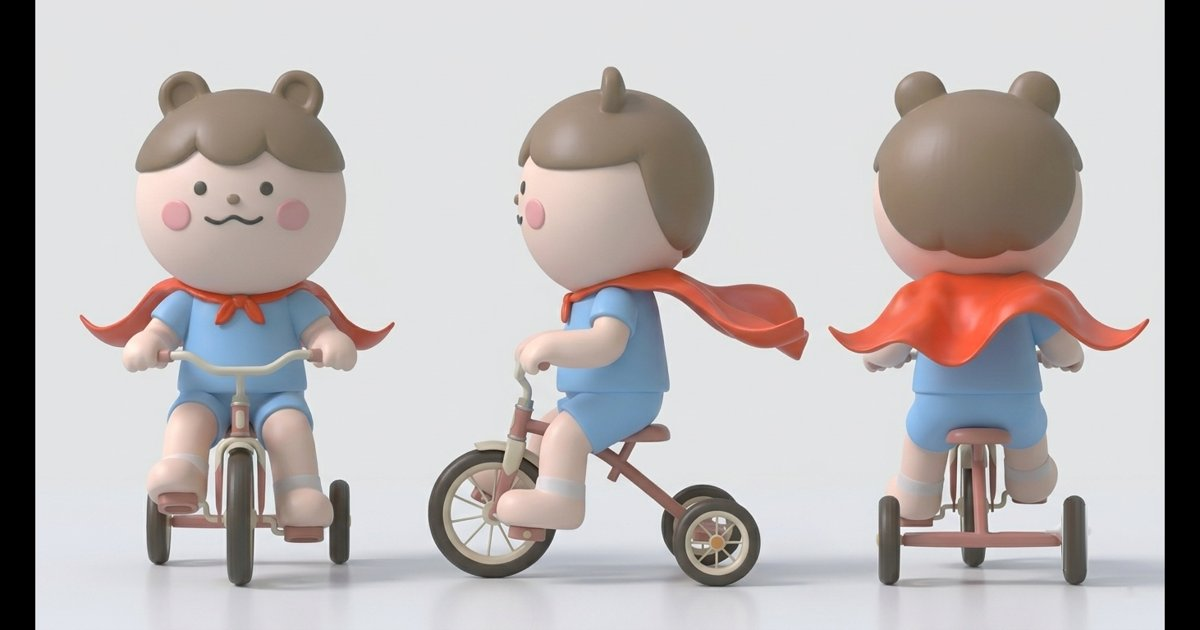
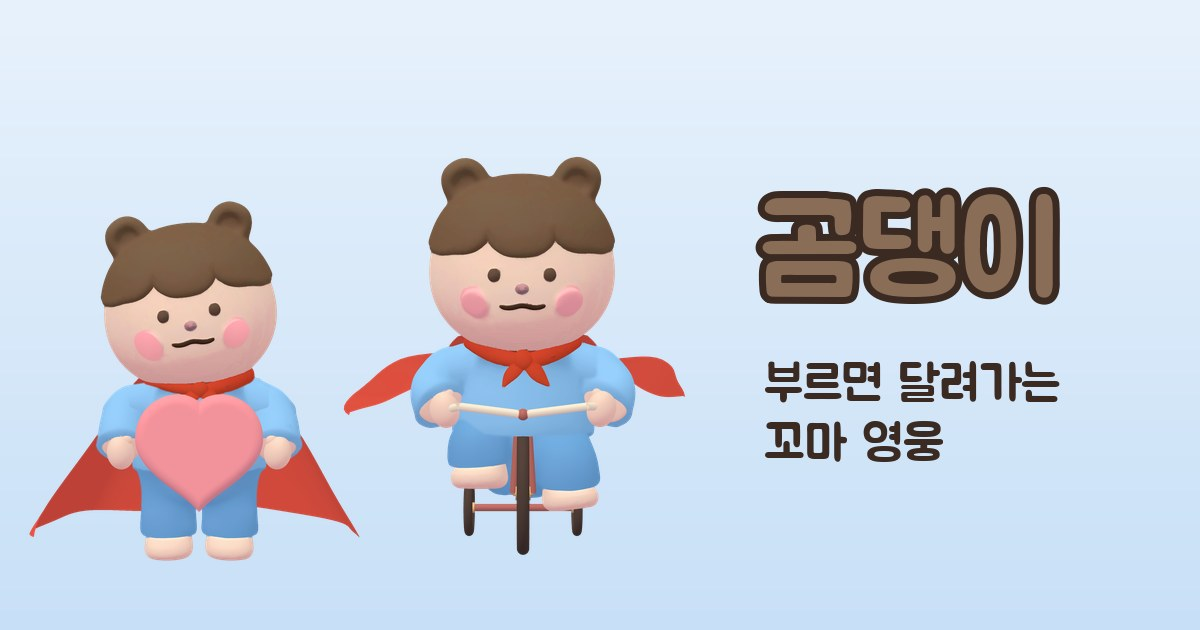
이미지 간소화: 공식 3D 원화로 통일, 갤러리 삭제, 굿즈 섹션을 상단으로 이동
Claude-Session: https://claude.ai/code/session_0173oautgBLqpQzjo32yZndw

diff --git a/index.html b/index.html
@@ -86,7 +86,7 @@ main{display:flex;flex-direction:column;gap:var(--gap);padding-block:var(--gap)}
 
 /* story */
 .story .in{display:grid;grid-template-columns:5fr 6fr;gap:clamp(24px,5vw,56px);align-items:center}
-.story-img{border-radius:24px;overflow:hidden;aspect-ratio:4/5}
+.story-img{border-radius:24px;overflow:hidden;aspect-ratio:1/1}
 .story-img img{width:100%;height:100%;object-fit:cover}
 .story-text{display:flex;flex-direction:column;gap:16px;min-width:0}
 .story-text p{max-width:30em}
@@ -182,7 +182,7 @@ footer.foot .in{padding-block:24px;display:flex;flex-wrap:wrap;justify-content:s
   <div class="in">
     <a class="logo" href="#top"><img src="favicon.png" alt="">곰댕이</a>
     <nav class="menu" aria-label="주요 메뉴">
-      <a href="#story">소개</a><a href="#profile">프로필</a><a href="#look">갤러리</a><a href="#video">영상</a><a href="#goods">굿즈</a><a href="#collab">협업</a>
+      <a href="#goods">굿즈</a><a href="#story">소개</a><a href="#video">영상</a><a href="#collab">협업</a>
     </nav>
     <a class="btn primary sm cta" href="mailto:gomdaenggo@gmail.com?subject=%5B%EA%B3%B0%EB%8C%95%EC%9D%B4%20%ED%98%91%EC%97%85%20%EC%A0%9C%EC%95%88%5D%20%ED%9A%8C%EC%82%AC%EB%AA%85%20/%20%EC%A0%9C%EC%95%88%20%EB%82%B4%EC%9A%A9&body=%EC%95%88%EB%85%95%ED%95%98%EC%84%B8%EC%9A%94%2C%20%EA%B3%B0%EB%8C%95%EC%9D%B4%20%ED%98%91%EC%97%85%EC%9D%84%20%EC%A0%9C%EC%95%88%EB%93%9C%EB%A6%BD%EB%8B%88%EB%8B%A4.%0A%0A%ED%9A%8C%EC%82%AC%28%EB%B8%8C%EB%9E%9C%EB%93%9C%29%EB%AA%85%3A%0A%EB%8B%B4%EB%8B%B9%EC%9E%90%20/%20%EC%97%B0%EB%9D%BD%EC%B2%98%3A%0A%ED%98%91%EC%97%85%20%ED%98%95%ED%83%9C%20%28%EB%9D%BC%EC%9D%B4%EC%84%A0%EC%8B%B1%2C%20%EA%B5%BF%EC%A6%88%2C%20%ED%8C%9D%EC%97%85%20%EB%93%B1%29%3A%0A%ED%9D%AC%EB%A7%9D%20%EC%9D%BC%EC%A0%95%3A%0A%EC%A0%9C%EC%95%88%20%EB%82%B4%EC%9A%A9%3A%0A">협업 제안</a>
   </div>
@@ -197,10 +197,10 @@ footer.foot .in{padding-block:24px;display:flex;flex-wrap:wrap;justify-content:s
       <p class="lead">곰 귀 머리에 빨간 망토를 두른 꼬마예요.<br>친구가 힘들다고 하면 빨간 세발자전거를 타고<br>누구보다 먼저 달려가요.</p>
       <div class="hero-btns">
         <a class="btn primary" href="mailto:gomdaenggo@gmail.com?subject=%5B%EA%B3%B0%EB%8C%95%EC%9D%B4%20%ED%98%91%EC%97%85%20%EC%A0%9C%EC%95%88%5D%20%ED%9A%8C%EC%82%AC%EB%AA%85%20/%20%EC%A0%9C%EC%95%88%20%EB%82%B4%EC%9A%A9&body=%EC%95%88%EB%85%95%ED%95%98%EC%84%B8%EC%9A%94%2C%20%EA%B3%B0%EB%8C%95%EC%9D%B4%20%ED%98%91%EC%97%85%EC%9D%84%20%EC%A0%9C%EC%95%88%EB%93%9C%EB%A6%BD%EB%8B%88%EB%8B%A4.%0A%0A%ED%9A%8C%EC%82%AC%28%EB%B8%8C%EB%9E%9C%EB%93%9C%29%EB%AA%85%3A%0A%EB%8B%B4%EB%8B%B9%EC%9E%90%20/%20%EC%97%B0%EB%9D%BD%EC%B2%98%3A%0A%ED%98%91%EC%97%85%20%ED%98%95%ED%83%9C%20%28%EB%9D%BC%EC%9D%B4%EC%84%A0%EC%8B%B1%2C%20%EA%B5%BF%EC%A6%88%2C%20%ED%8C%9D%EC%97%85%20%EB%93%B1%29%3A%0A%ED%9D%AC%EB%A7%9D%20%EC%9D%BC%EC%A0%95%3A%0A%EC%A0%9C%EC%95%88%20%EB%82%B4%EC%9A%A9%3A%0A">협업 제안하기</a>
-        <a class="btn" href="#look">곰댕이 더 보기</a>
+        <a class="btn" href="#goods">굿즈 보러 가기</a>
       </div>
     </div>
-    <div class="hero-img"><img src="img/hero.webp" alt="세발자전거를 타고 달리는 곰댕이" width="1100" height="1100"></div>
+    <div class="hero-img"><img src="img/hero_v2.webp" alt="빨간 세발자전거를 타고 망토를 휘날리는 곰댕이" width="1100" height="1100"></div>
   </div>
 </section>
 
@@ -214,63 +214,6 @@ footer.foot .in{padding-block:24px;display:flex;flex-wrap:wrap;justify-content:s
 </div>
 
 <main>
-
-  <section class="story" id="story">
-    <div class="in">
-      <div class="story-img"><img src="img/worry.webp" alt="친구의 메시지를 보고 걱정하는 곰댕이" loading="lazy"></div>
-      <div class="story-text">
-        <span class="eyebrow">STORY</span>
-        <h2>힘이 세진 않지만,<br>곁에 있어 주는 일은 누구보다 잘해요</h2>
-        <p>곰댕이는 힘으로 문제를 해결해 주는 영웅이 아니에요. 친구에게 "지금 어디야?" 하고 물어 오고, 망토를 휘날리며 달려와 옆에 앉아 주는 친구예요.</p>
-        <p class="quote">"괜차나,<br>곰댕이 여기 이떠."</p>
-        <div class="lines" aria-label="자주 하는 말">
-          <span class="bubble main">지금 어디야? 곰방 갈게!</span>
-          <span class="bubble">망토 출동!</span>
-          <span class="bubble">토닥토닥, 오늘도 잘해쪄.</span>
-        </div>
-      </div>
-    </div>
-  </section>
-
-  <section id="look">
-    <div class="in">
-      <div class="sec-head">
-        <span class="eyebrow">LOOK</span>
-        <h2>어떤 장면에서도 한눈에 곰댕이</h2>
-        <p class="lead">둥근 머리와 곰 귀, 점 눈과 ω 입, 분홍 볼, 하늘색 옷과 빨간 망토. 작은 면적에서도 실루엣만으로 알아볼 수 있어요.</p>
-      </div>
-      <figure class="turn">
-        <img src="img/turnaround.webp" alt="세발자전거를 탄 곰댕이의 앞, 옆, 뒤 모습" width="1376" height="768" loading="lazy">
-        <figcaption>턴어라운드 · 앞 / 옆 / 뒤</figcaption>
-      </figure>
-      <div class="gallery">
-        <figure><img src="img/front.webp" alt="곰댕이 기본 정면 전신" loading="lazy"><figcaption>기본 정면 전신</figcaption></figure>
-        <figure><img src="img/hello.webp" alt="반가워 하며 손을 드는 곰댕이" loading="lazy"><figcaption>"반가워!"</figcaption></figure>
-        <figure class="wide"><img src="img/village.webp" alt="마을 길을 세발자전거로 달리는 곰댕이" loading="lazy"><figcaption>친구에게 가는 길</figcaption></figure>
-        <figure><img src="img/going.webp" alt="가고 있어 하며 달려가는 곰댕이" loading="lazy"><figcaption>"가고 있어!"</figcaption></figure>
-        <figure><img src="img/figure.webp" alt="원목 받침 위 피규어 형태의 곰댕이" loading="lazy"><figcaption>피규어 무드</figcaption></figure>
-        <figure><img src="img/night.webp" alt="밤에 손전등을 든 잠옷 차림 곰댕이" loading="lazy"><figcaption>밤에도 출동</figcaption></figure>
-        <figure><img src="img/pajama.webp" alt="구름 잠옷을 입은 곰댕이" loading="lazy"><figcaption>구름 잠옷 의상</figcaption></figure>
-        <figure><img src="img/twod.webp" alt="2D 일러스트 버전 곰댕이 반가워" loading="lazy"><figcaption>2D 일러스트 버전</figcaption></figure>
-        <figure><img src="img/ride.jpg" alt="세발자전거로 달려오는 곰댕이 정면" width="886" height="1100"><figcaption>곰방 갈게!</figcaption></figure>
-        <figure class="wide"><img src="img/emoticon.webp" alt="곰댕이 이모티콘 시안 24종" loading="lazy" style="object-position:top"><figcaption>이모티콘 시안 24종</figcaption></figure>
-      </div>
-    </div>
-  </section>
-
-  <section id="video">
-    <div class="in">
-      <div class="sec-head">
-        <span class="eyebrow">VIDEO</span>
-        <h2>어떤 상품과도 잘 어울려요</h2>
-        <p class="lead">칫솔, 우유, 반창고, 장난감, 가방까지. 곰댕이가 광고 모델이 되면 이런 모습이에요.</p>
-      </div>
-      <figure class="film">
-        <video src="video/trailer.mp4" poster="video/trailer-poster.webp" autoplay muted loop playsinline controls preload="metadata" aria-label="곰댕이 상품 광고 예시 영상"></video>
-        <figcaption>상품 광고 예시 트레일러 · 20초</figcaption>
-      </figure>
-    </div>
-  </section>
 
   <section id="goods">
     <div class="in">
@@ -286,6 +229,38 @@ footer.foot .in{padding-block:24px;display:flex;flex-wrap:wrap;justify-content:s
         <li><a href="https://marpple.shop/gomdaeng_company/products/26031462" target="_blank" rel="noopener"><img src="https://common.image.cf.marpple.co/files/u_6583489/2026/11/original/57f36a02b979423f992ef237450951fddd8ebdfa1.png?q=90&amp;w=720&amp;f=webp&amp;bg=f6f6f6" onerror="this.onerror=null;this.src='img/shop_ride.webp'" alt="세발자전거를 탄 곰댕이 아크릴 스탠드" width="720" height="720" loading="lazy"><span class="t">부릉 출동! 곰댕이</span><span class="k">아크릴 스탠드</span></a></li>
       </ul>
       <div class="shop-cta"><a class="btn primary" href="https://marpple.shop/kr/gomdaeng_company" target="_blank" rel="noopener">곰댕이 굿즈샵 가기</a></div>
+    </div>
+  </section>
+
+
+  <section class="story" id="story">
+    <div class="in">
+      <div class="story-img"><img src="img/story_v2.webp" alt="하트를 꼭 안은 곰댕이" width="1000" height="1000" loading="lazy"></div>
+      <div class="story-text">
+        <span class="eyebrow">STORY</span>
+        <h2>힘이 세진 않지만,<br>곁에 있어 주는 일은 누구보다 잘해요</h2>
+        <p>곰댕이는 힘으로 문제를 해결해 주는 영웅이 아니에요. 친구에게 "지금 어디야?" 하고 물어 오고, 망토를 휘날리며 달려와 옆에 앉아 주는 친구예요.</p>
+        <p class="quote">"괜차나,<br>곰댕이 여기 이떠."</p>
+        <div class="lines" aria-label="자주 하는 말">
+          <span class="bubble main">지금 어디야? 곰방 갈게!</span>
+          <span class="bubble">망토 출동!</span>
+          <span class="bubble">토닥토닥, 오늘도 잘해쪄.</span>
+        </div>
+      </div>
+    </div>
+  </section>
+
+  <section id="video">
+    <div class="in">
+      <div class="sec-head">
+        <span class="eyebrow">VIDEO</span>
+        <h2>어떤 상품과도 잘 어울려요</h2>
+        <p class="lead">칫솔, 우유, 반창고, 장난감, 가방까지. 곰댕이가 광고 모델이 되면 이런 모습이에요.</p>
+      </div>
+      <figure class="film">
+        <video src="video/trailer.mp4" poster="video/trailer-poster.webp" autoplay muted loop playsinline controls preload="metadata" aria-label="곰댕이 상품 광고 예시 영상"></video>
+        <figcaption>상품 광고 예시 트레일러 · 20초</figcaption>
+      </figure>
     </div>
   </section>
 
